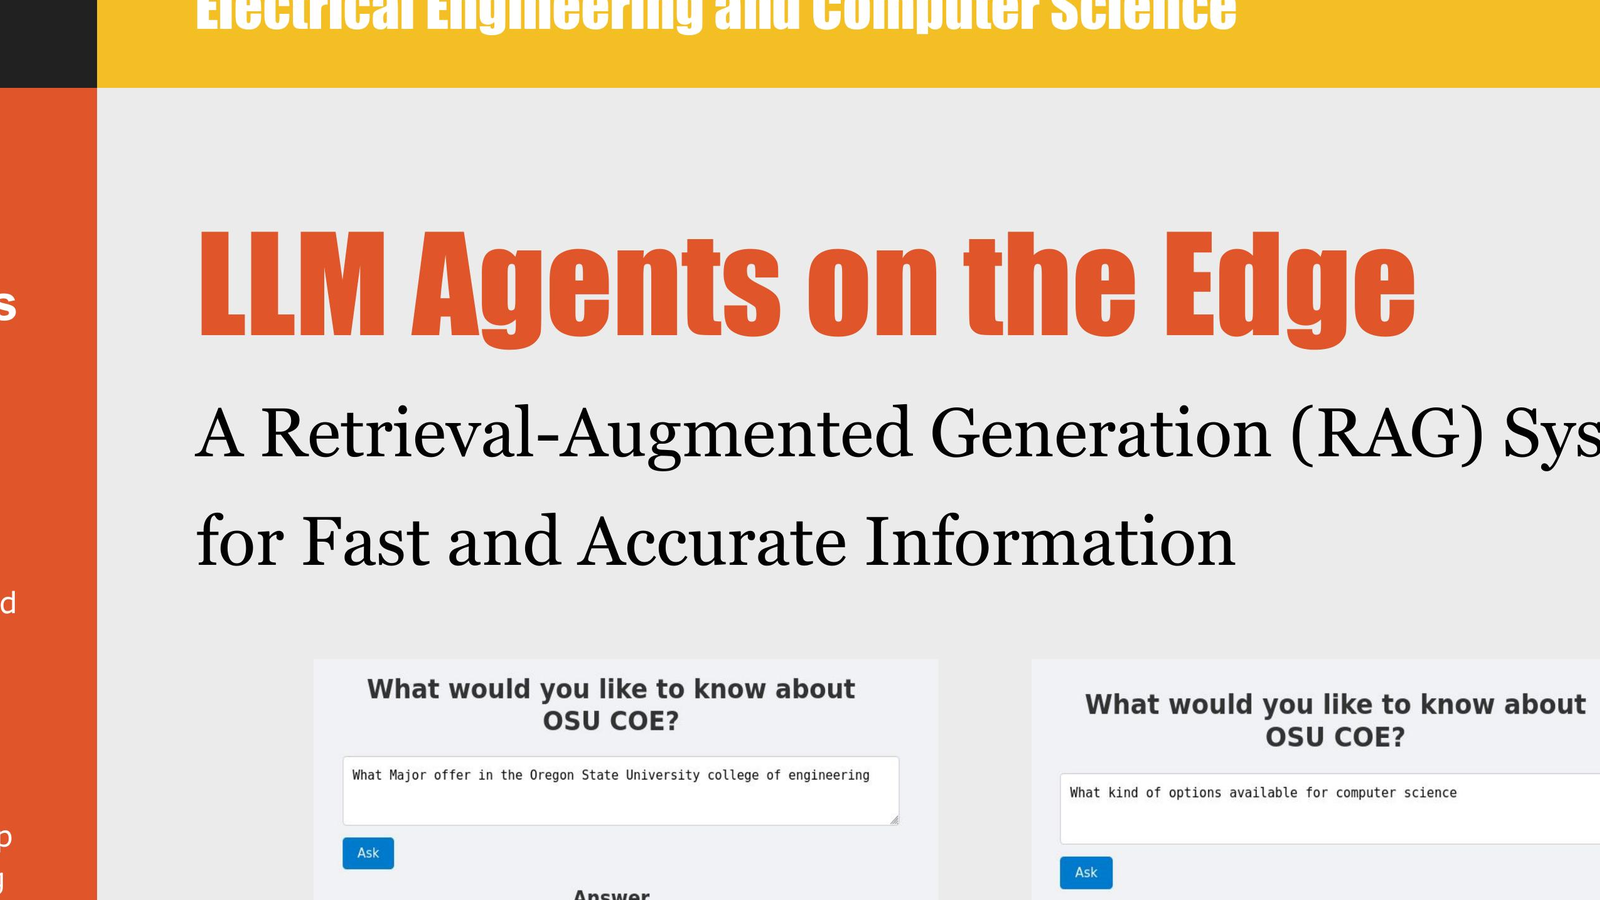
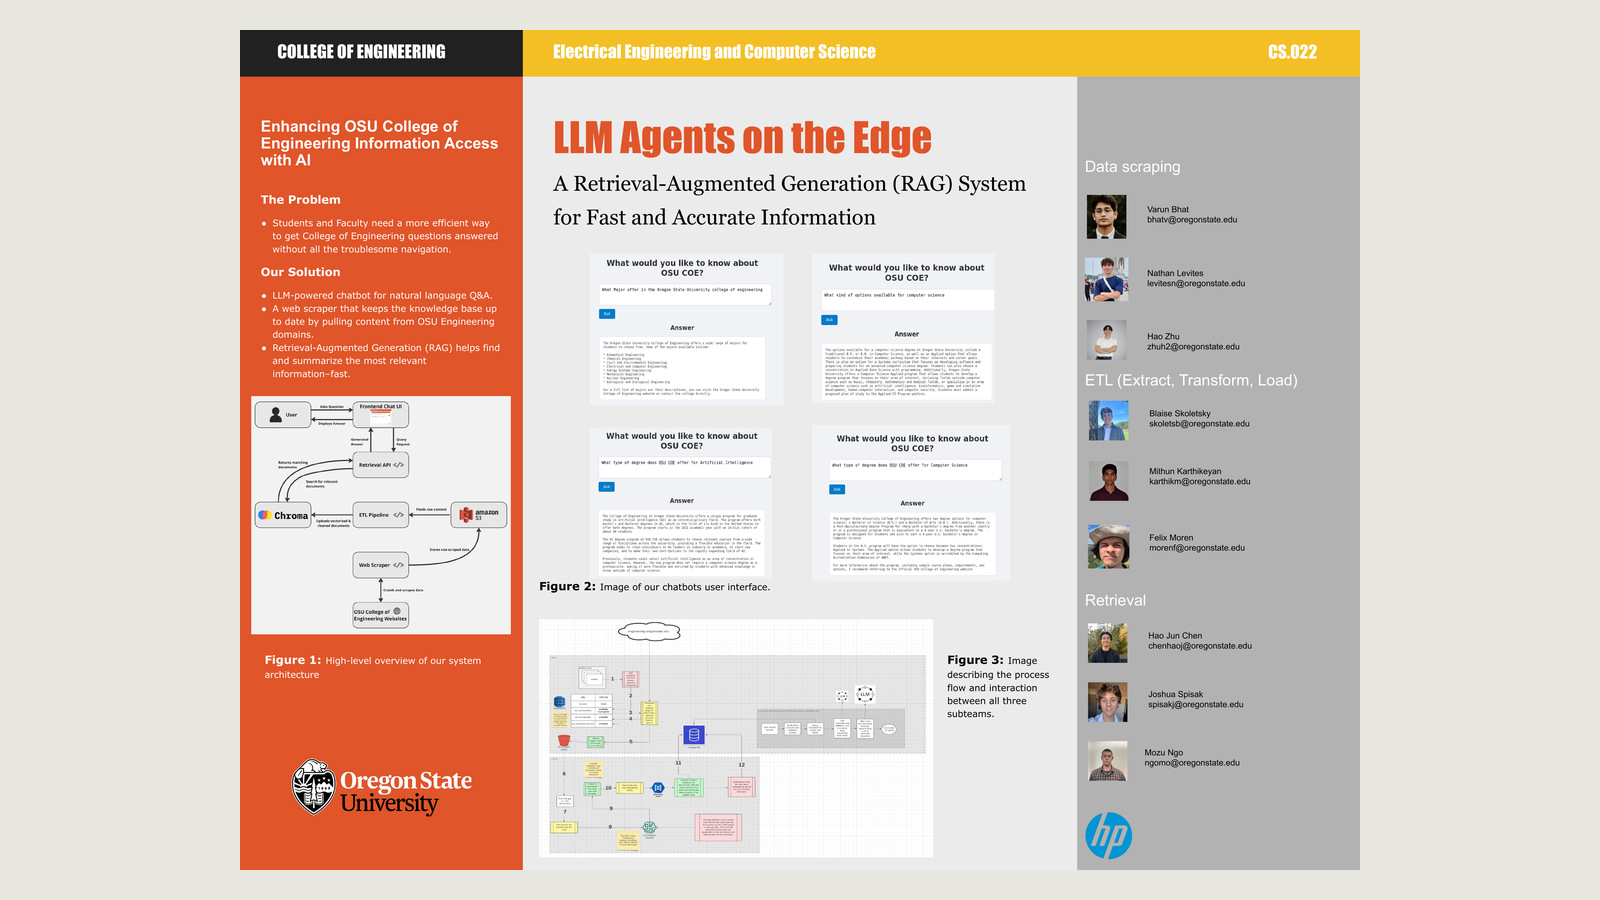
Upgrade remaining project visuals

diff --git a/src/data/portfolio.ts b/src/data/portfolio.ts
@@ -187,18 +187,20 @@ export const projects: Project[] = [
     period: "Apr 2025",
     summary: "A 24-hour hackathon project that turned classroom attendance into a competitive, geolocation-validated check-in experience.",
     technologies: ["React", "TypeScript", "Node.js", "Geolocation APIs"],
+    image: "/images/projects/roll-call-brawl.png",
     links: [{ label: "View on Devpost", href: "https://devpost.com/software/roll-call-brawl" }],
-    featured: false,
+    featured: true,
   },
   {
     title: "CODEX Decay Curve Fitting GUI",
     period: "Apr 2024 - Sep 2024",
     summary: "An open-source scientific tool for simulating and fitting CODEX decay data used in high-pressure NMR diffusion research.",
     technologies: ["Python", "NumPy", "SciPy", "Data visualization"],
+    image: "/images/projects/codex-decay.png",
     links: [
       { label: "View repository", href: "https://github.com/2top/CODEX_LateralDiffusion_PythonGUI" },
       { label: "Read publication", href: "https://www.nature.com/articles/s42004-025-01449-7#code-availability" },
     ],
-    featured: false,
+    featured: true,
   },
 ];
